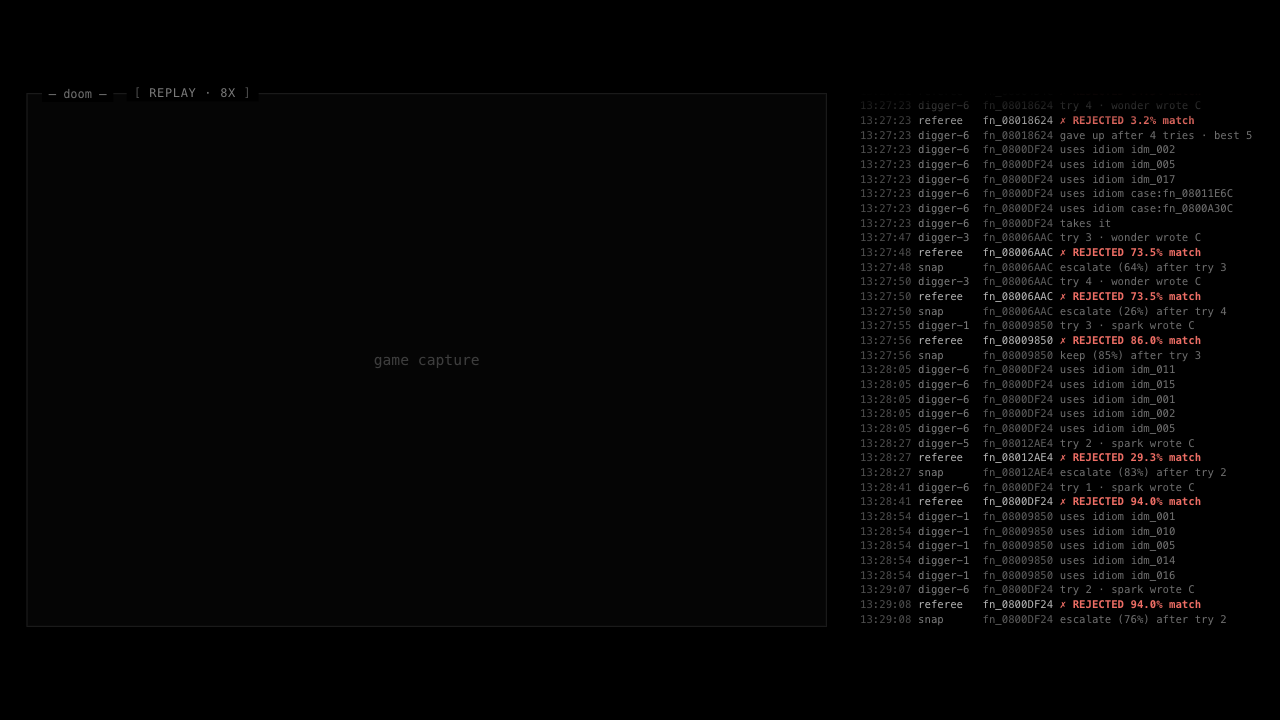
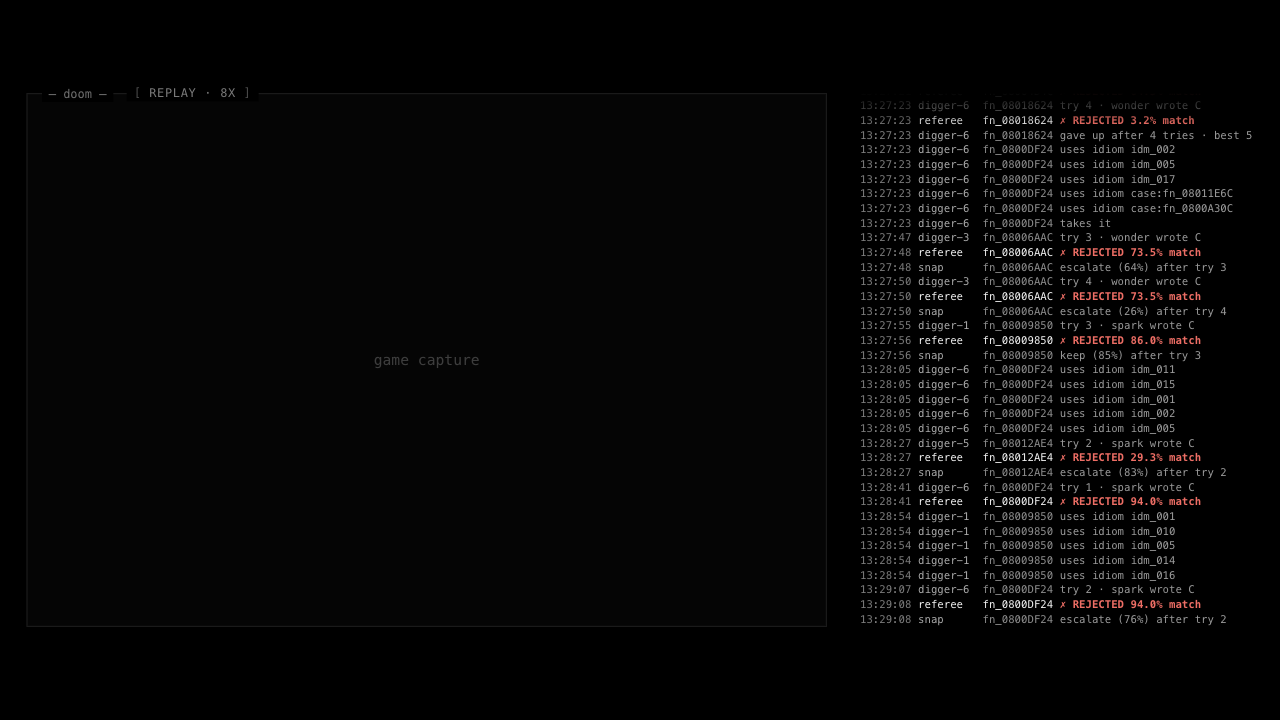
stage: brighten the log's grey lines a step; PROVED and REJECTED stay brightest

diff --git a/stage/src/scenes/log.css b/stage/src/scenes/log.css
@@ -115,3 +115,9 @@ body.obs .lg-game .ttl { display: none; }
 .lg-raw::-webkit-scrollbar { width: 6px; }
 .lg-raw::-webkit-scrollbar-thumb { background: #2a2a2a; }
 .lg-raw.back { -webkit-mask-image: none; mask-image: none; }
+/* a bit brighter for the room; PROVED and REJECTED stay the brightest */
+.lg-raw li { color: #9a9a9a; }
+.lg-raw li .t { color: #7a7a7a; }
+.lg-raw li .w { color: #a8a8a8; }
+.lg-raw li .f { color: #8c8c8c; }
+.lg-raw li.proved, .lg-raw li.proved .w, .lg-raw li.proved .f, .lg-raw li.rejected .w, .lg-raw li.rejected .f { color: #f2f2f2; }
